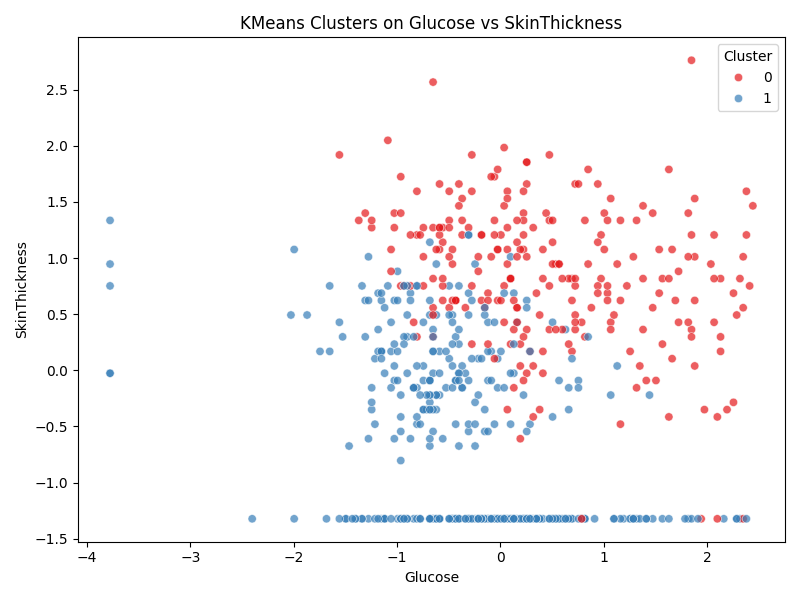
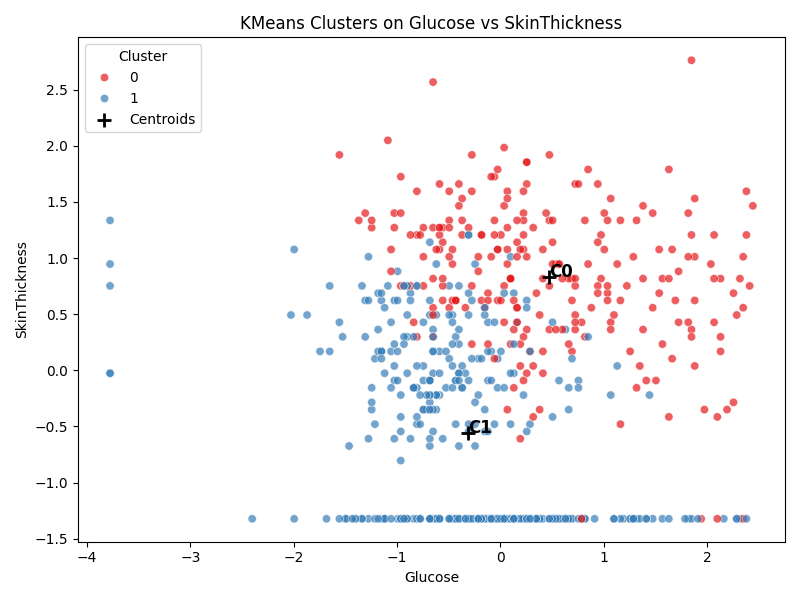
checkpoint ex 1 & 2

diff --git a/eda.py b/eda.py
@@ -325,6 +325,33 @@ class K_means:
                 palette="Set1",
                 alpha=0.7,
             )
+
+            # Plot Centroids
+            centers = self.kmeans.cluster_centers_
+            feature_idx_a = self.X.columns.get_loc(feature_x)
+            feature_idx_b = self.X.columns.get_loc(feature_y)
+
+            plt.scatter(
+                centers[:, feature_idx_a],
+                centers[:, feature_idx_b],
+                c='black',
+                s=100,
+                marker='+',
+                linewidths=2,
+                label='Centroids',
+            )
+
+            # Add labels to centroids
+            for idx, (x, y) in enumerate(zip(centers[:, feature_idx_a], centers[:, feature_idx_b])):
+                plt.text(
+                    x,
+                    y,
+                    f"C{idx}",
+                    fontsize=12,
+                    fontweight='bold',
+                    color='black',
+                )
+
             plt.title(f"KMeans Clusters on {feature_x} vs {feature_y}")
             plt.xlabel(feature_x)
             plt.ylabel(feature_y)
